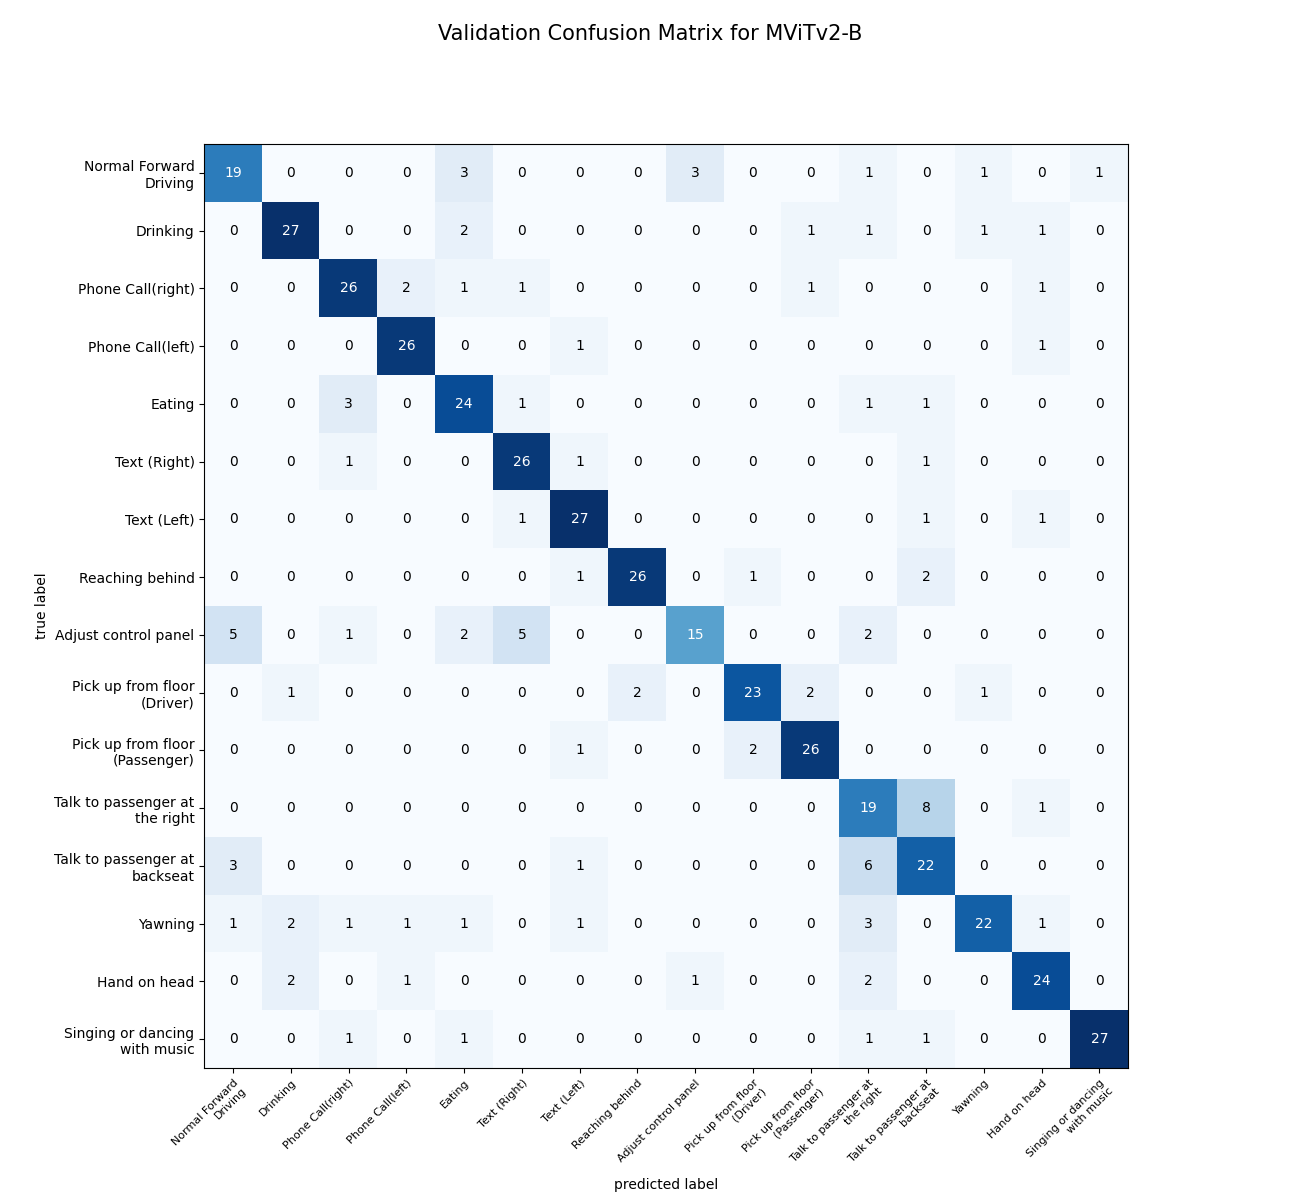
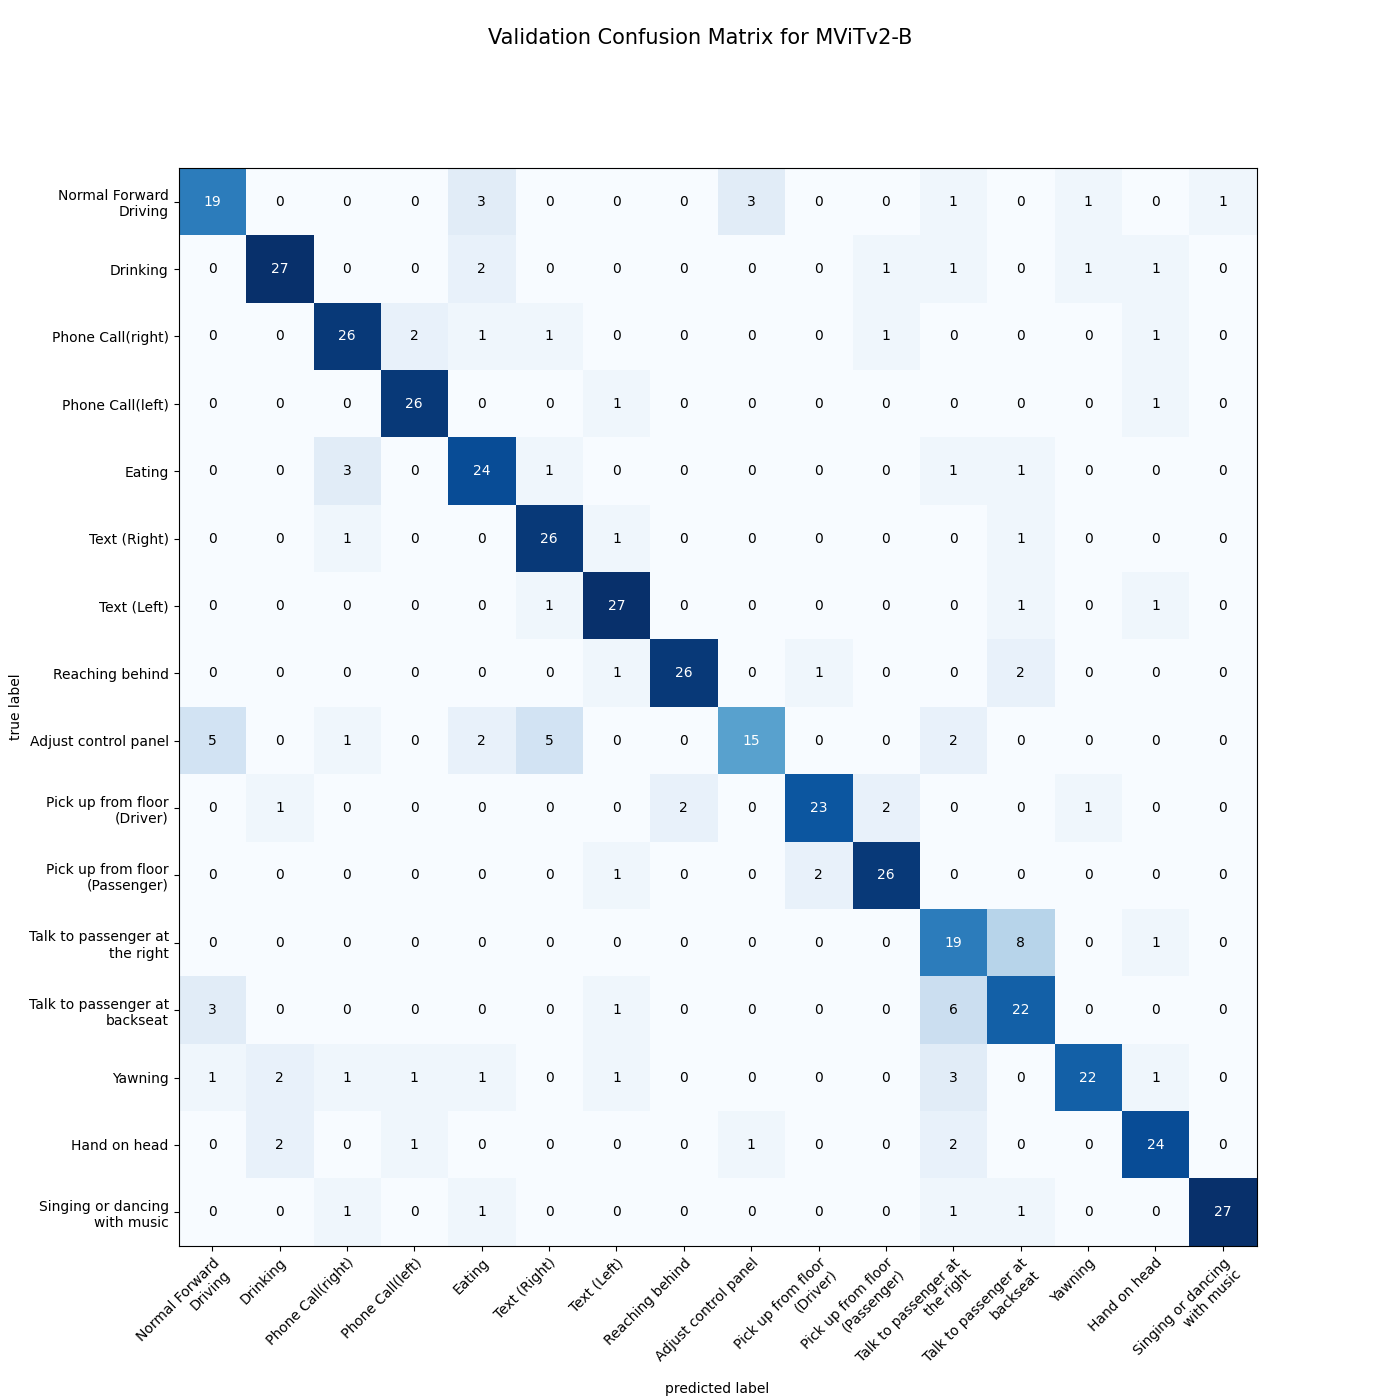
corrected figsize

diff --git a/slowfast/visual_prompting/diagnose_preds.py b/slowfast/visual_prompting/diagnose_preds.py
@@ -268,10 +268,9 @@ if __name__ == '__main__':
     fig, ax = plot_confusion_matrix(
         conf_mat=confmat_tensor.numpy(),
         class_names=class_names,
-        figsize=(13,12)
+        figsize=(14,14)
     )
-
-    ax.tick_params(axis='x', which='major', labelsize=8)
+    
     fig.suptitle("Validation Confusion Matrix for MViTv2-B", fontsize=15)
     
     # save figure
